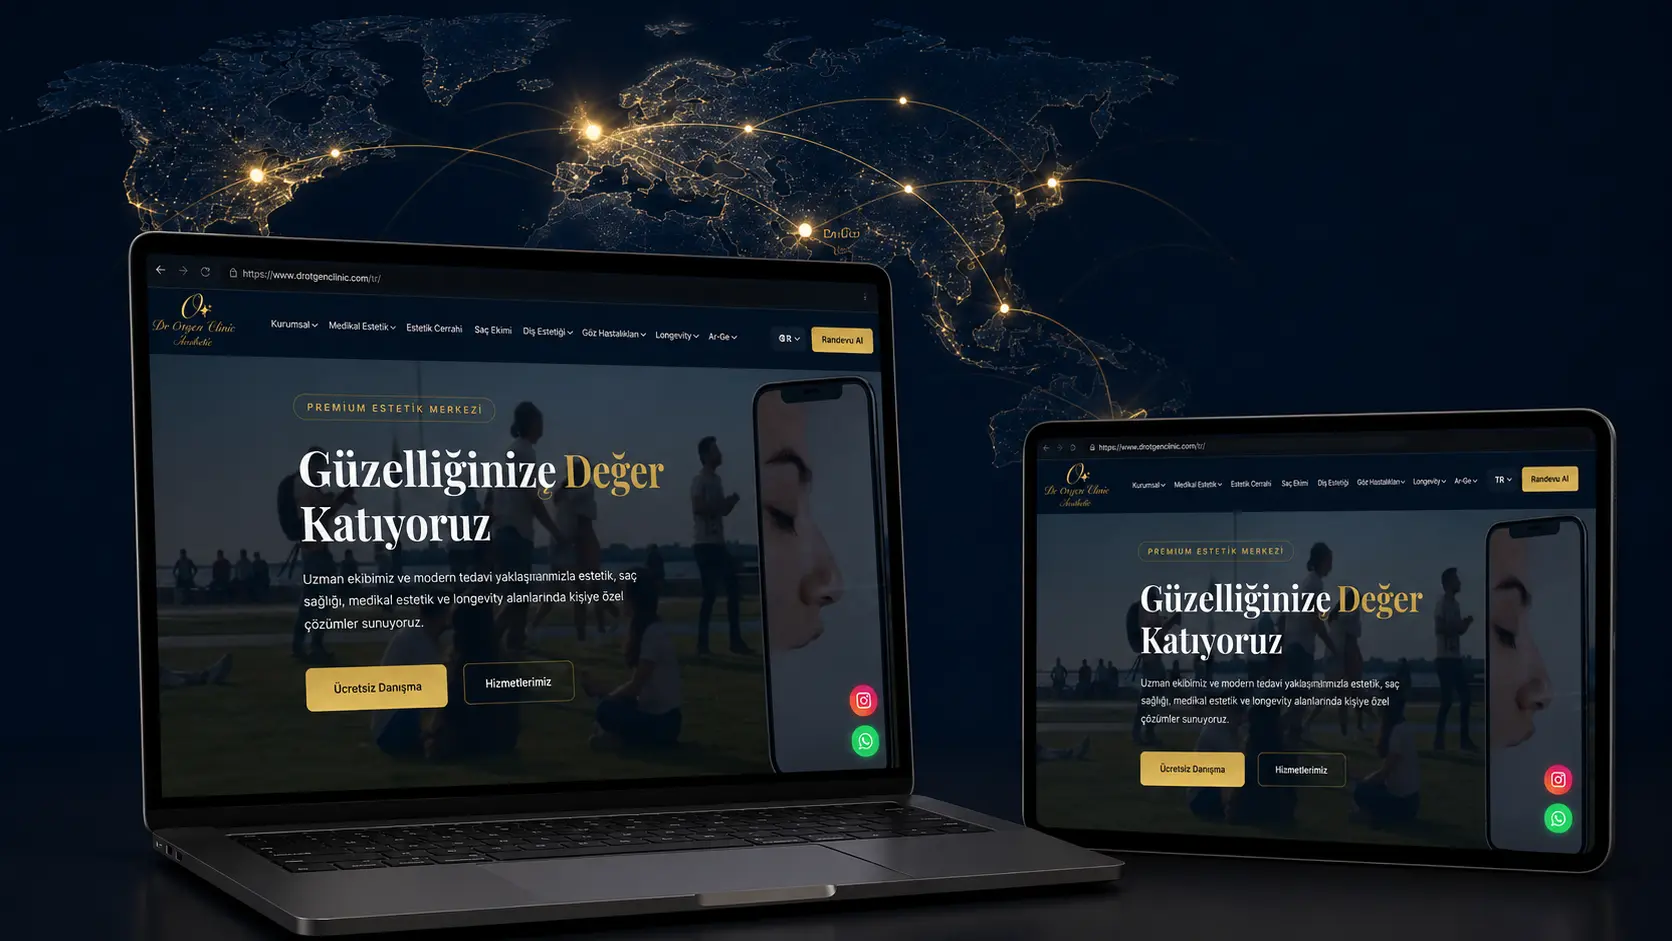
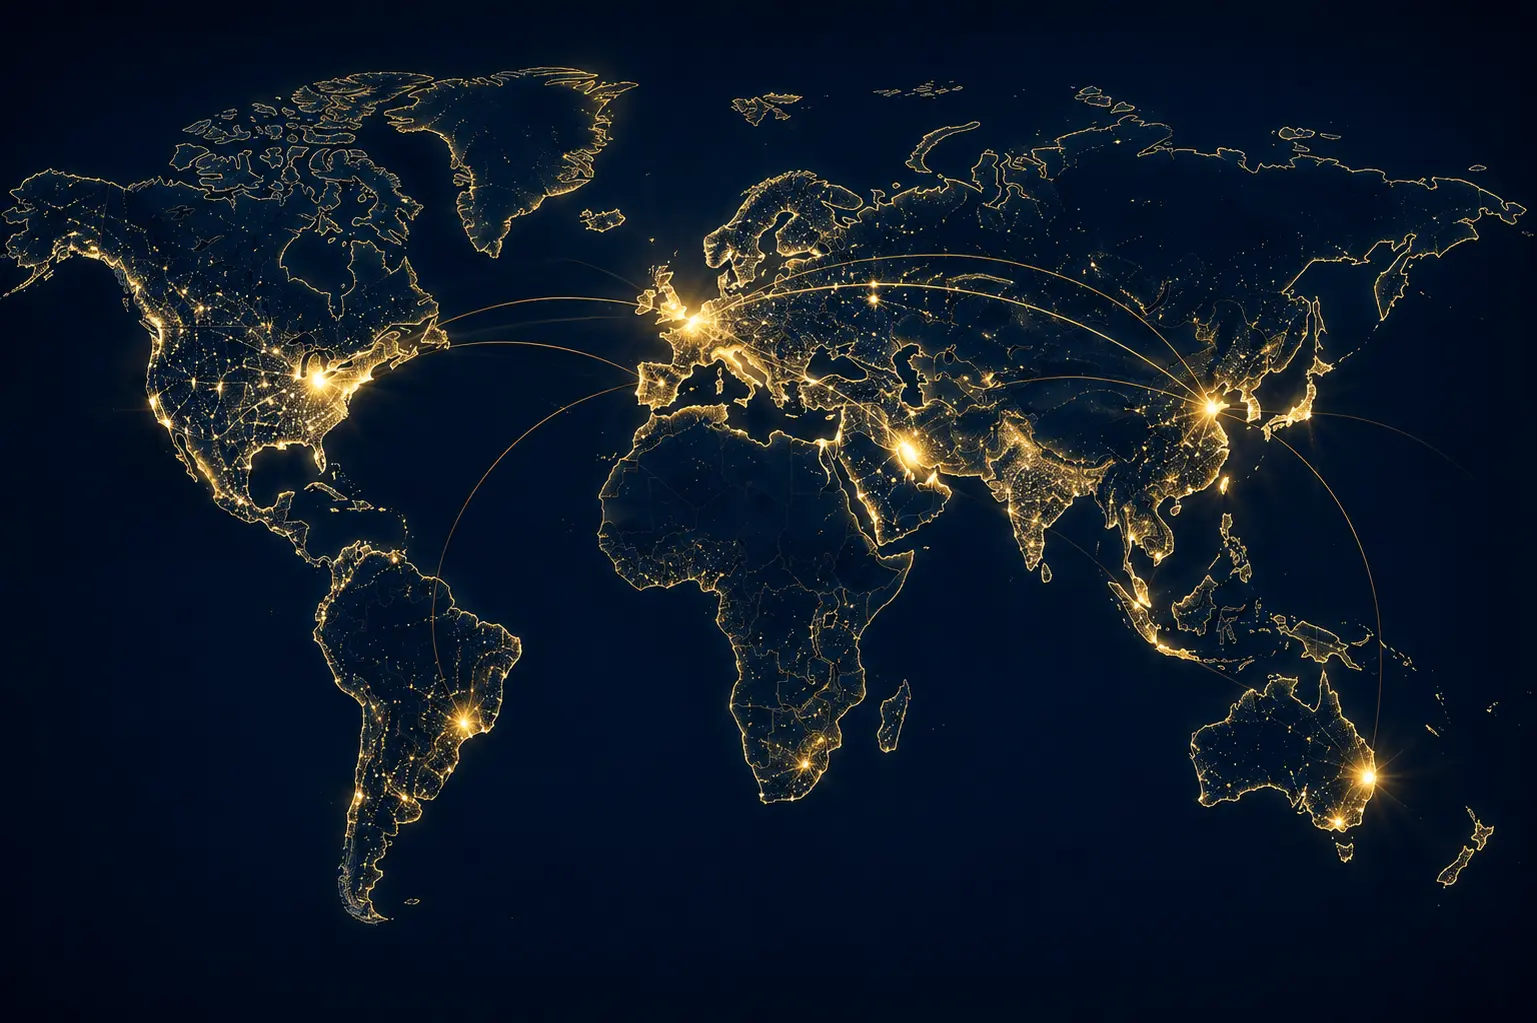
fix: update E-Ticaret Ar-Ge hero and showcase images
Replace hero banner with the world map visual and add the vertical platform mockup to the intro section.

diff --git a/src/ecommerce-rd-department.js b/src/ecommerce-rd-department.js
@@ -150,14 +150,39 @@ function renderBreadcrumb() {
 }
 
 function renderIntroSection() {
-  return `
-    <section class="mr-section" aria-labelledby="mr-intro-title">
-      <div class="container mr-prose">
+  const showcase = page.showcase;
+  const proseContent = `
         <div class="mr-section-head">
           <h2 id="mr-intro-title">${escapeHtml(page.intro.title)}</h2>
           ${page.intro.paragraphs
             .map((paragraph) => `<p>${escapeHtml(paragraph)}</p>`)
             .join('')}
+        </div>
+  `;
+
+  if (!showcase?.image) {
+    return `
+    <section class="mr-section" aria-labelledby="mr-intro-title">
+      <div class="container mr-prose">
+        ${proseContent}
+      </div>
+    </section>
+  `;
+  }
+
+  return `
+    <section class="mr-section" aria-labelledby="mr-intro-title">
+      <div class="container mr-split">
+        <div class="mr-split-text mr-prose">
+          ${proseContent}
+        </div>
+        <div class="mr-split-media">
+          <img
+            src="${showcase.image}"
+            alt="${escapeHtml(showcase.alt || page.hero.title)}"
+            loading="lazy"
+            decoding="async"
+          />
         </div>
       </div>
     </section>

diff --git a/src/medikal-rd-department.css b/src/medikal-rd-department.css
@@ -149,6 +149,33 @@
   margin-bottom: 0;
 }
 
+.mr-split {
+  display: grid;
+  grid-template-columns: minmax(280px, 1fr) minmax(260px, 0.9fr);
+  gap: clamp(24px, 4vw, 48px);
+  align-items: center;
+}
+
+.mr-split-text .mr-section-head {
+  margin-bottom: 0;
+}
+
+.mr-split-media {
+  display: flex;
+  justify-content: center;
+}
+
+.mr-split-media img {
+  width: 100%;
+  max-width: 420px;
+  display: block;
+  border-radius: 14px;
+  border: 1px solid rgba(201, 168, 76, 0.22);
+  box-shadow: 0 24px 60px rgba(0, 0, 0, 0.32);
+  object-fit: contain;
+  background: rgba(5, 17, 34, 0.55);
+}
+
 .mr-focus-grid {
   display: grid;
   grid-template-columns: repeat(auto-fit, minmax(240px, 1fr));
@@ -202,6 +229,14 @@
     margin-right: 16px;
     width: auto;
     padding: 24px 22px 28px;
+  }
+
+  .mr-split {
+    grid-template-columns: 1fr;
+  }
+
+  .mr-split-media img {
+    max-width: 100%;
   }
 
   .mr-section {

diff --git a/src/ecommerce-rd-data.js b/src/ecommerce-rd-data.js
@@ -9,6 +9,10 @@ export const ECOMMERCE_RD_PAGE = {
     lead: 'E-sağlık ticaretine yönelik yenilikçi platform ve dijital dönüşüm vizyonu',
     image: '/images/ecommerce_rd/ecommerce_rd_hero.webp',
   },
+  showcase: {
+    image: '/images/ecommerce_rd/ecommerce_rd_showcase.webp',
+    alt: 'Dr Otgen Clinic E-Ticaret Ar-Ge dijital platform vizyonu',
+  },
   intro: {
     title: 'E-Sağlık Ticaretine Yenilikçi Yaklaşım',
     paragraphs: [
